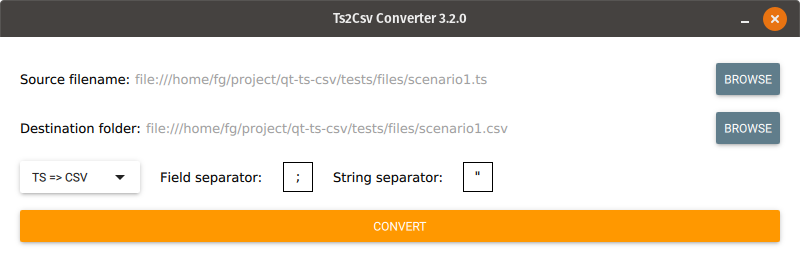
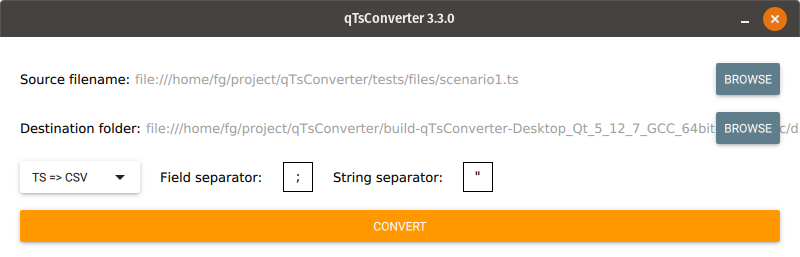
Rename to qTsConverter

diff --git a/src/qml/main.qml b/src/qml/main.qml
@@ -9,7 +9,7 @@ import Qt.labs.settings 1.0
 import app 1.0
 
 Window {
-    title: qsTr("Ts2Csv Converter ") + version
+    title: qsTr("qTsConverter ") + version
 
     minimumHeight: 220
     minimumWidth: 800

diff --git a/src/main.cpp b/src/main.cpp
@@ -18,7 +18,7 @@ int main(int argc, char **argv)
     QGuiApplication app(argc, argv);
     app.setOrganizationName("Federico Guerinoni");
     app.setOrganizationDomain("Federico Guerinoni");
-    app.setApplicationName("qt-ts-csv");
+    app.setApplicationName("qTsConverter");
 
 
     QFontDatabase::addApplicationFont(":/assets/fonts/Roboto-Light.ttf");

diff --git a/README.md b/README.md
@@ -4,9 +4,9 @@
 
 [![Codacy Badge](https://api.codacy.com/project/badge/Grade/f615b50a30204ed8aee3ca5d0ad382ee)](https://www.codacy.com/manual/guerinoni/qt-ts-csv?utm_source=github.com&amp;utm_medium=referral&amp;utm_content=guerinoni/qt-ts-csv&amp;utm_campaign=Badge_Grade)
 
-# qt-ts-csv
+# qTsConverter
 This tool was born to convert `.ts` file of Qt translation in other format more editable using an office suite.
-Now it supports `.ts` -> `.csv/.xls.` and vice versa. You can also do conversion between `.csv` and `.xls` keeping in mind the use of header tags used to retrieve the right information of translation.
+Now it supports `.ts` -> `.csv/.xlsx` and vice versa. You can also do conversion between `.csv` and `.xlsx` keeping in mind the use of header tags used to retrieve the right information of translation.
 
 ## Build
 ```
@@ -15,6 +15,9 @@ Now it supports `.ts` -> `.csv/.xls.` and vice versa. You can also do conversion
 > cmake .. -DCMAKE_PREFIX_PATH=/opt/qt512/
 > make
 ```
+
+## Contributing
+[guidelines](./doc/CONTRIBUTING.md)
 
 ## Usage
 
